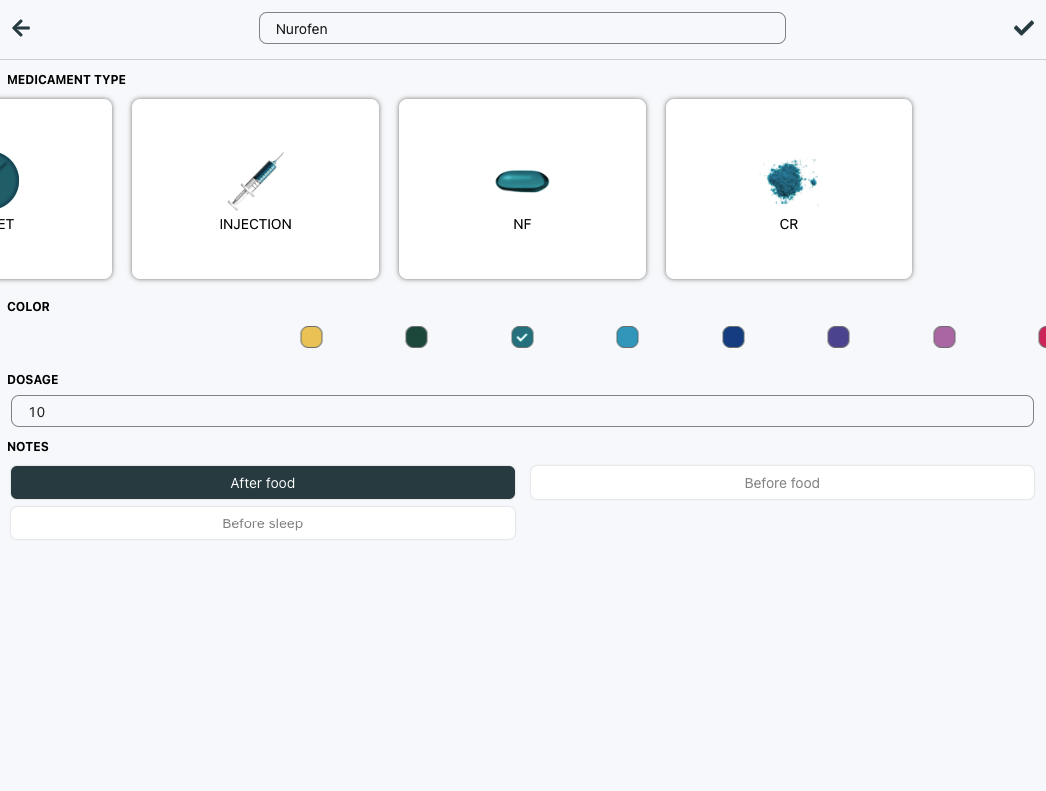
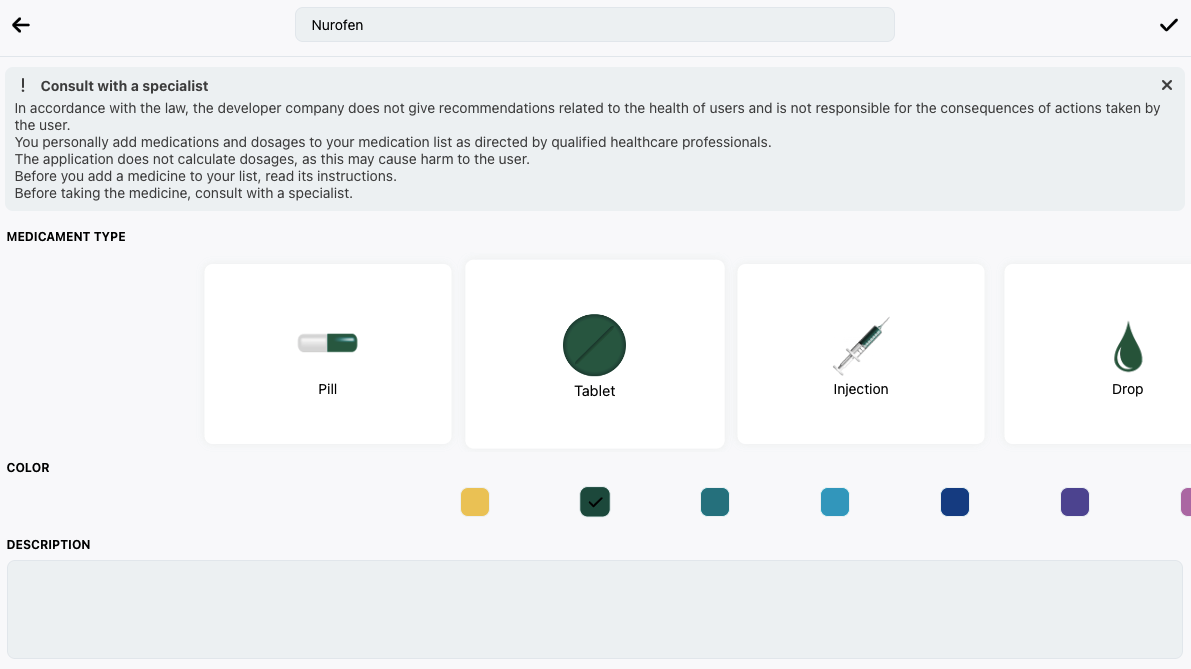
Modify ToDo & Med

diff --git a/i18n/ru/docusaurus-plugin-content-docs/current/presentation/schedule/schedule.md b/i18n/ru/docusaurus-plugin-content-docs/current/presentation/schedule/schedule.md
@@ -26,13 +26,9 @@ slug: /presentation/schedule
 
 `Календарь` помечает `pin`-ами те дни, в которые запланирована хотя бы одна задача
 
-<div align="center" display="flex">
-    <div>
-        <img type="imgscreen" src="/WM_doc/img/presentation/calendar/schedulerView.png"/>
-    </div>
-    <div>
-        <img type="imgscreen" src="/WM_doc/img/presentation/calendar/schedulerCalendar.png"/>
-    </div>
+<div align="center">
+    <img type="imgscreen" src="/WM_doc/img/presentation/calendar/schedulerView.png"/>
+    <img type="imgscreen" src="/WM_doc/img/presentation/calendar/schedulerCalendar.png"/>
 </div>
 
 ## Создание событий {#schedule_event_add}
@@ -48,13 +44,9 @@ slug: /presentation/schedule
 
 В зависимости от выбранного типа события, открытое далее окно конструктор событий будет содержать в себе несколько разный набор компонетов, однако в большинстве случаев эти наборы пересекаются.
 
-<div align="center" display="flex">
-    <div>
-        <img type="imgscreen" src="/WM_doc/img/presentation/calendar/addEvent1.png"/>
-    </div>
-    <div>
-        <img type="imgscreen" src="/WM_doc/img/presentation/calendar/addEvent2.png"/>
-    </div>
+<div align="center">
+    <img type="imgscreen" src="/WM_doc/img/presentation/calendar/addEvent_default.png"/>
+    <img type="imgscreen" src="/WM_doc/img/presentation/calendar/addEvent_med.png"/>
 </div>
 
 ### Выбор времени события

diff --git a/docs/presentation/schedule/schedule.md b/docs/presentation/schedule/schedule.md
@@ -27,13 +27,9 @@ If a task is scheduled for the current day, it will be displayed next to the hou
 
 The calendar `pins` the days on which at least one task is scheduled
 
-<div align="center" display="flex">
-    <div>
-        <img type="imgscreen" src="/WM_doc/img/presentation/calendar/schedulerView.png"/>
-    </div>
-    <div>
-        <img type="imgscreen" src="/WM_doc/img/presentation/calendar/schedulerCalendar.png"/>
-    </div>
+<div align="center">
+    <img type="imgscreen" src="/WM_doc/img/presentation/calendar/schedulerView.png"/>
+    <img type="imgscreen" src="/WM_doc/img/presentation/calendar/schedulerCalendar.png"/>
 </div>
 
 ## Creating events {#schedule_event_add}
@@ -49,13 +45,9 @@ After clicking, you get to the window for selecting the `type of event`. Current
 
 Depending on the selected event type, the event designer window that is opened next will contain a slightly different set of components, but in most cases, these sets overlap.
 
-<div align="center" display="flex">
-    <div>
-        <img type="imgscreen" src="/WM_doc/img/presentation/calendar/addEvent1.png"/>
-    </div>
-    <div>
-        <img type="imgscreen" src="/WM_doc/img/presentation/calendar/addEvent2.png"/>
-    </div>
+<div align="center">
+    <img type="imgscreen" src="/WM_doc/img/presentation/calendar/addEvent_default.png"/>
+    <img type="imgscreen" src="/WM_doc/img/presentation/calendar/addEvent_med.png"/>
 </div>
 
 ### Event Timings

diff --git a/i18n/ru/docusaurus-plugin-content-docs/current/presentation/storage_entities/intro.md b/i18n/ru/docusaurus-plugin-content-docs/current/presentation/storage_entities/intro.md
@@ -15,10 +15,8 @@ slug: /presentation/storage_entities/medicaments
 
 В данном случае, конфигурация включает в себя:
 
+- Наименование препарата
 - Тип (форма) препарата
 - Цвет препарата
-- Дозировка
-- Наименование
-- Примечания
 
 <div align="center"><img type="imgscreen" src="/WM_doc/img/presentation/med/medConstructor.png"/></div>

diff --git a/docs/presentation/storage_entities/intro.md b/docs/presentation/storage_entities/intro.md
@@ -15,10 +15,8 @@ slug: /presentation/storage_entities/medicaments
 
 In this case, the configuration includes:
 
+- Name of the drug
 - Type (form) of the drug
 - Color of preparation
-- Dosage
-- Name
-- Notes
 
 <div align="center"><img type="imgscreen" src="/WM_doc/img/presentation/med/medConstructor.png"/></div>
